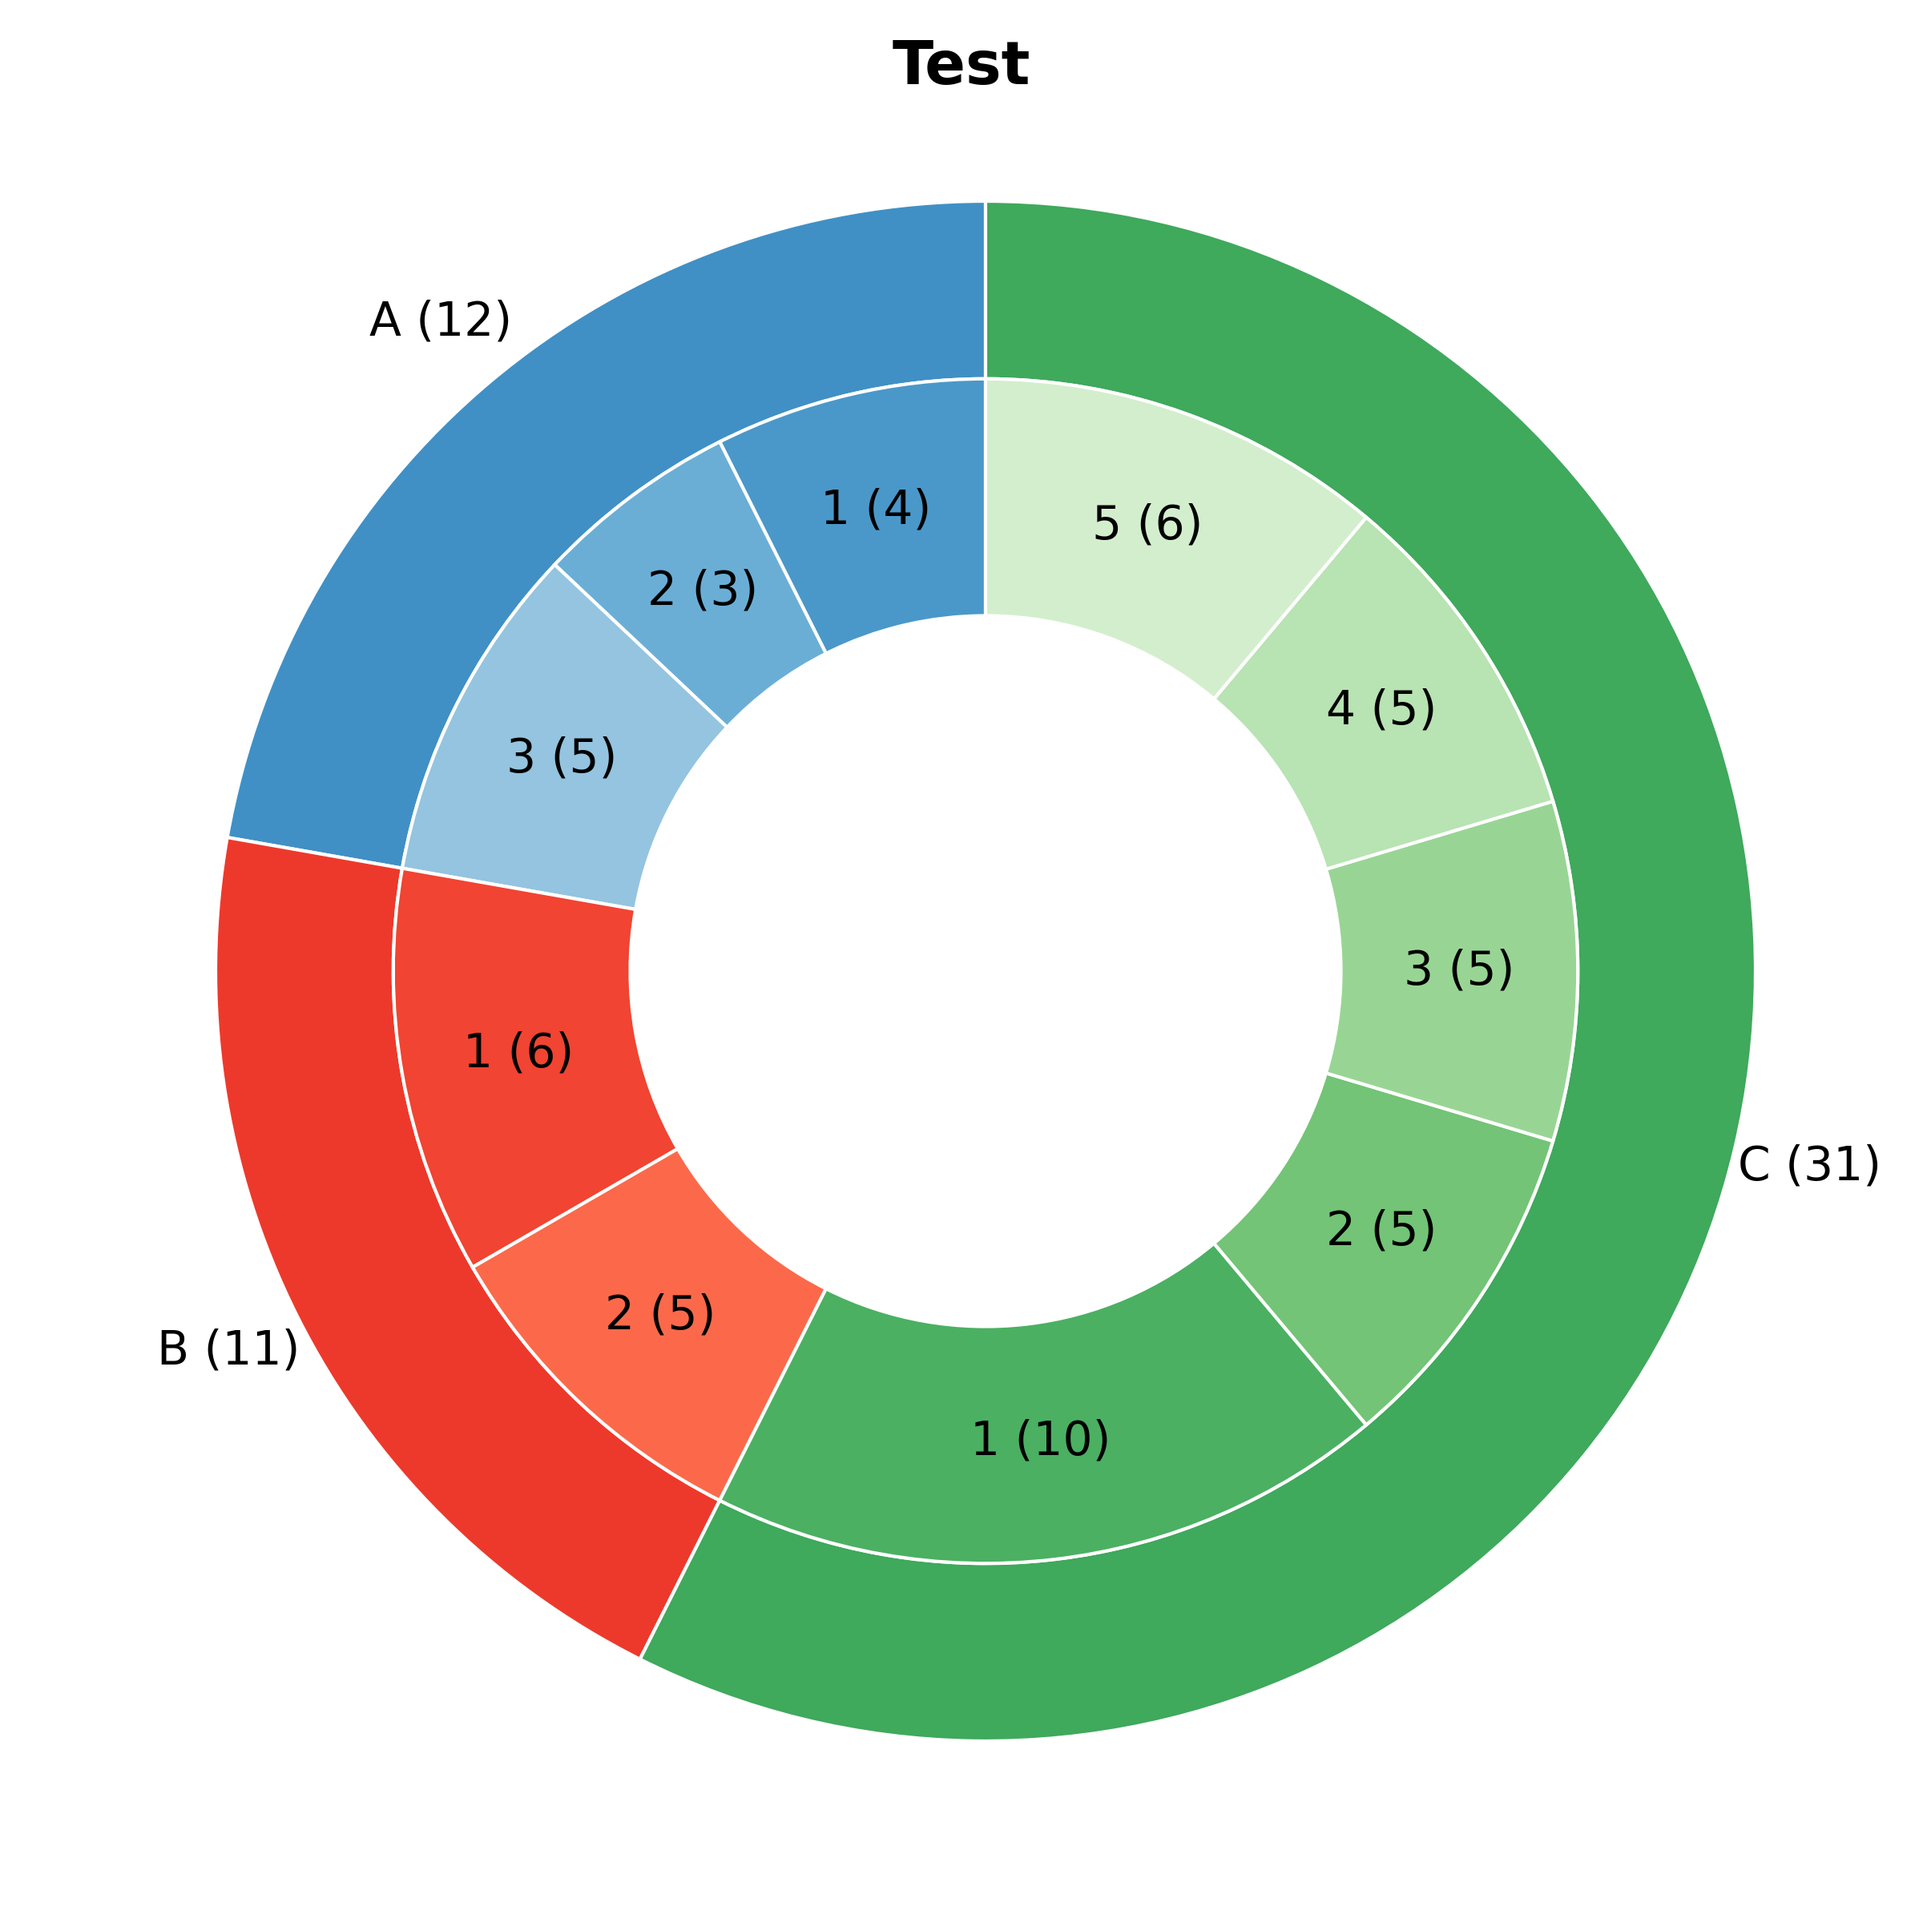
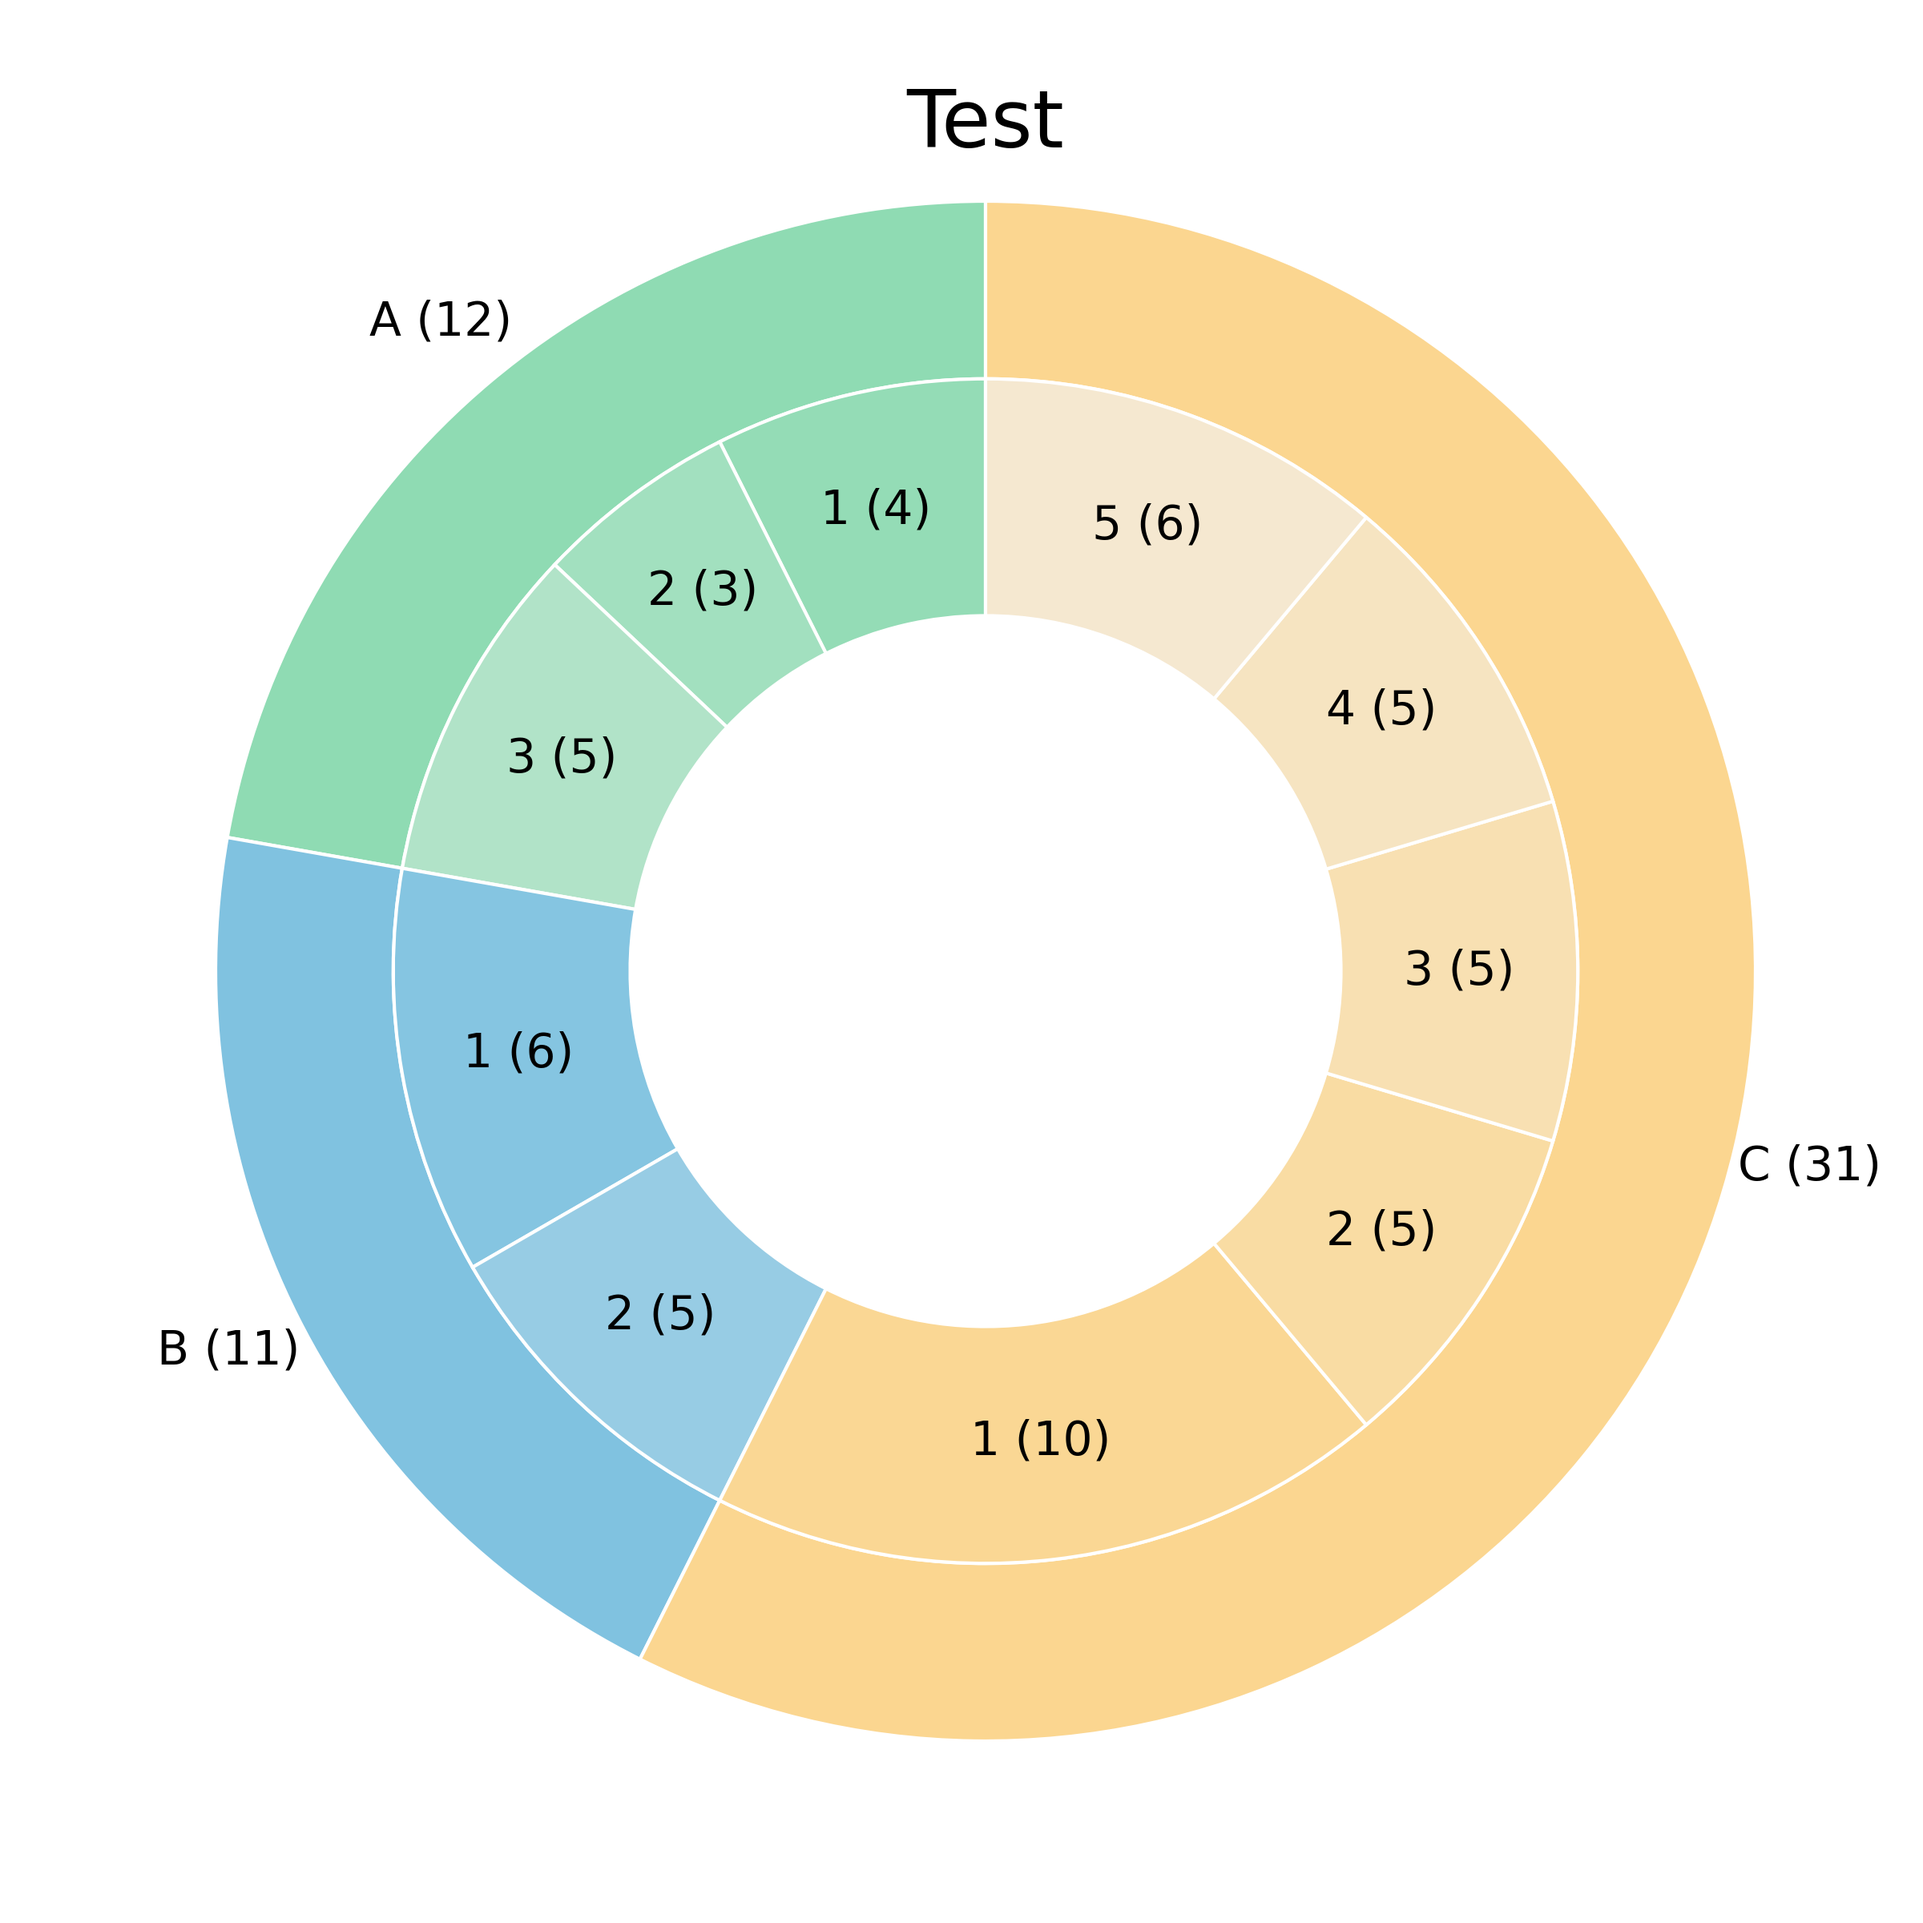
v1.1.2 allow to specify ax object in plot_donut

diff --git a/prettypy/donut/donut.py b/prettypy/donut/donut.py
@@ -30,8 +30,6 @@ import seaborn as sns
 @dataclass
 class DonutConfig:
     figsize: tuple = (8,8)
-    title: str = ""
-    title_fontsize: int = 24 # font size for title above plot
     plot_fontsize: int = 14  # font size for text in the plot
     show_group_sizes: bool = True # should group sizes be indicated in labels?
     show_subgroup_sizes: bool = True # should group sizes be indicated in labels?
@@ -129,7 +127,7 @@ class _DonutPlot(object):
         seen_add = seen.add
         return [x for x in seq if not (x in seen or seen_add(x))]
 
-    def plot_donut(self, df, col_groups, col_subgroups):
+    def plot_donut(self, df, col_groups, col_subgroups, ax=None):
         """
         Main function of the class
         """
@@ -170,7 +168,11 @@ class _DonutPlot(object):
         [next(colormp) for g in range(self.config.advance_color_increments)]
         colorm_per_grp=[next(colormp) for g in group_names]
 
-        fig, ax = plt.subplots(figsize=self.config.figsize)
+        if ax is None:
+            ax_was_none = True
+            fig, ax = plt.subplots(figsize=self.config.figsize)
+        else:
+            ax_was_none = False
 
         ### First Ring (outside)
         ### This will be the main groups
@@ -178,7 +180,7 @@ class _DonutPlot(object):
             labels = [self.config.sizes_fmt % (x,y) for x, y in zip(group_names, group_size)]
         else:
             labels = ["%s" % x for x in group_names]
-        mypie, _ = plt.pie(
+        mypie, _ = ax.pie(
             group_size, radius=self.config.outer_ring_radius, labels=labels, startangle=90,
             textprops={'fontsize': self.config.plot_fontsize, 'ha': 'center', 'va': 'center'},
             labeldistance=self.config.group_labeldistance, colors=[colormp(0.63) for colormp in colorm_per_grp] )
@@ -233,24 +235,21 @@ class _DonutPlot(object):
             labels = ["%s" % x for x in subgroup_names]
         sub_grp_colors = [i for sublt in list_sub_grp_colors_l for i in sublt]
 
-        mypie2, _ = plt.pie(
+        mypie2, _ = ax.pie(
             subgroup_size, radius=self.config.inner_ring_radius, labels=labels, startangle=90,
             textprops={'fontsize': self.config.plot_fontsize, 'ha': 'center', 'va': 'center'},
             labeldistance=self.config.subgroup_labeldistance, colors=sub_grp_colors)
         plt.setp(mypie2, width=self.config.inner_ring_width, edgecolor='white')
-        plt.margins(0,0)
 
-        # title
-        plt.suptitle(self.config.title, fontsize=self.config.title_fontsize, fontweight="bold")
-
-        return fig, ax
+        if ax_was_none:
+            return fig, ax
 
 
-def plot_donut(df, col_groups, col_subgroups, config: DonutConfig):
+def plot_donut(df, col_groups, col_subgroups, config: DonutConfig, ax=None):
     """
     Takes a dataframe along some information about columns in the dataframe and makes a donut plot.  The plot is a
     breakdown of the main groups to subgroups with the main groups in an outer ring of the dount plot and the subgroups
     on the inner ring. The style sought is available at https://python-graph-gallery.com/163-donut-plot-with-subgroups/.
     """
     plotter = _DonutPlot(config=config)
-    return plotter.plot_donut(df=df, col_groups=col_groups, col_subgroups=col_subgroups)
+    return plotter.plot_donut(df=df, col_groups=col_groups, col_subgroups=col_subgroups, ax=ax)

diff --git a/tests/test_donut.py b/tests/test_donut.py
@@ -75,12 +75,16 @@ def make_mock_df_1():
 
 def test_plot_donut_1():
     df = make_mock_df_1()
-    config = DonutConfig(title_fontsize=18, title="Test", figsize=(8,8), sizes_fmt="%s (%d)", group_labeldistance=1.1)
+    config = DonutConfig(figsize=(8,8), sizes_fmt="%s (%d)", group_labeldistance=1.1,
+                         colors=["#59CD90","#3FA7D6","#FFC759"])
 
-    fig, axes = plot_donut(df=df,
-                           col_groups="group",
-                           col_subgroups="subgroup",
-                           config=config)
+    fig, ax = plot_donut(df=df,
+                         col_groups="group",
+                         col_subgroups="subgroup",
+                         config=config)
+
+    # title
+    ax.set_title("Test", fontsize=24, fontweight="medium", pad=25)
     plt.savefig("./img/test_donut_1.png", dpi=300)
     plt.close()
 
@@ -119,13 +123,19 @@ def make_mock_df_2():
 
 def test_plot_donut_2():
     df = make_mock_df_2()
-    config = DonutConfig(title_fontsize=18, plot_fontsize=12, title="EXAMPLE", figsize=(10,8),
-                         colors=["#30688D","#B1A091"], light_color_for_last_in_subgroup=False)
+    config = DonutConfig(plot_fontsize=12, colors=["#59CD90","#3FA7D6"],
+                         light_color_for_last_in_subgroup=False)
 
-    fig, axes = plot_donut(df=df,
-                           col_groups="group",
-                           col_subgroups="subgroup",
-                           config=config)
-    plt.subplots_adjust(left=0.15, right=0.85, top=0.9, bottom=0.05)
+    fig, ax = plt.subplots(1,1,figsize=(10,8))
+
+    plot_donut(df=df,
+               col_groups="group",
+               col_subgroups="subgroup",
+               config=config,
+               ax=ax)
+
+    # title
+    ax.set_title("Example", fontsize=24, fontweight="medium", pad=25)
+    plt.tight_layout()
     plt.savefig("./img/test_donut_2.png", dpi=300)
     plt.close()

diff --git a/README.md b/README.md
@@ -14,7 +14,7 @@ kind of much slower than the `UpSetR` implementation.
 
 Here is an example of rendering on a simulated example.
 
-![pcawg](img/test_pyupset_all.png)
+![upset](img/test_pyupset_all.png)
 
 ## 2. Heatmap plots
 
@@ -35,4 +35,4 @@ NEJM, 2016.
 Inspired by the plot [here](https://python-graph-gallery.com/donut-plot/) and the code mentioned in the comments by the
 author.
 
-![pcawg](img/test_donut_2.png)
+![donut](img/test_donut_1.png)
